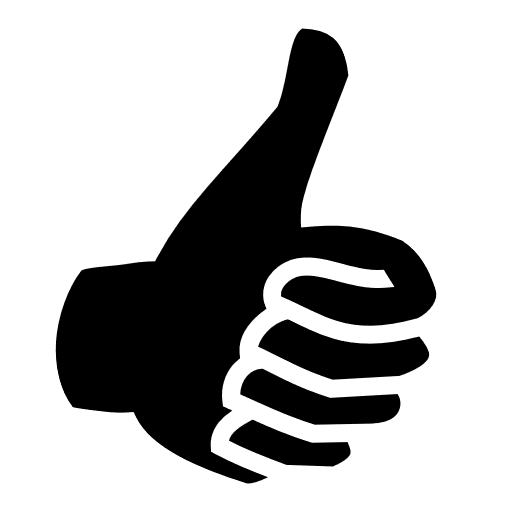
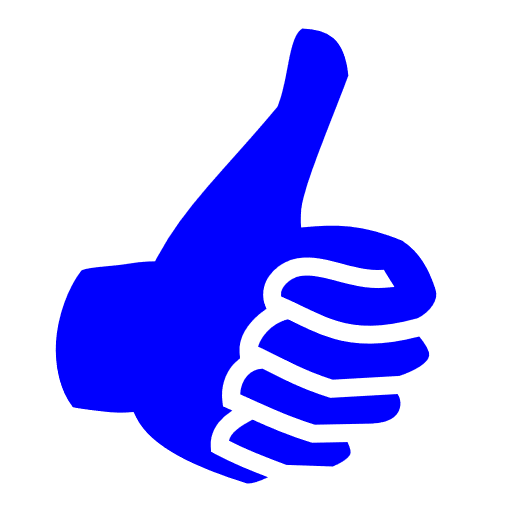
Styling everything clickable blue

Changed region(s): [[0.0938, 0.0312, 0.875, 0.9688]]

diff --git a/apps/14996_score.php b/apps/14996_score.php
@@ -47,12 +47,35 @@ img {
 	width:224px;
 	height:224px;
 	font-size:100%;
+	background-color:#0000FF;
+	color:#FFFFFF;
 }
-#dialog input
+#dialog input[type="button"]
 {
 	height:256px;
 	width:1536px;
 	font-size:100%;
+	background-color:#0000FF;
+	color:#FFFFFF;
+}
+#dialog input[type="number"]
+{
+	height:224px;
+	width:1504px;
+	font-size:100%;
+	background-color:#FFFFFF;
+	color:#0000FF;
+	border:16px solid #0000FF;
+}
+::placeholder
+{
+	color:#FFFFFF; 
+	font-size:80%;
+	text-shadow:
+		-4px -4px 0 #0000FF,
+		 4px -4px 0 #0000FF,
+		-4px 4px 0 #0000FF,
+		 4px 4px 0 #0000FF;
 }
 </style>
 <script language="javascript">
